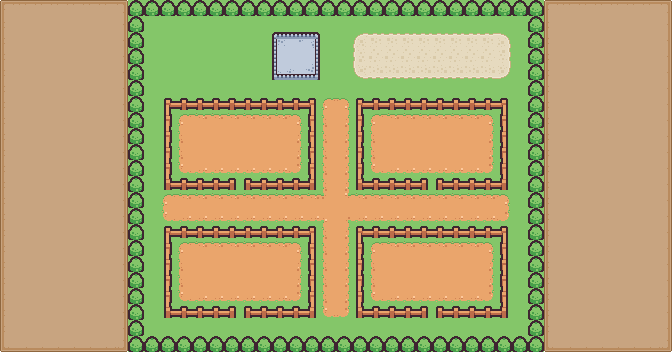
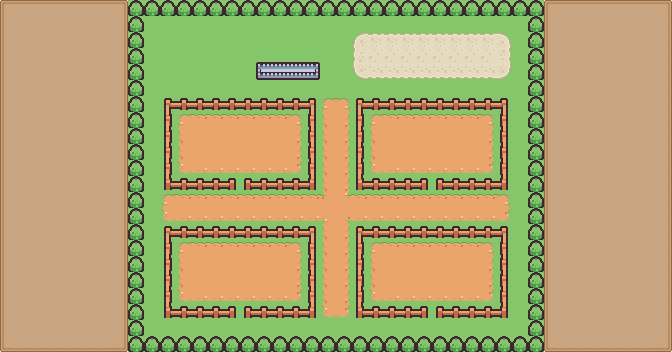
Added building material usage

Changed region(s): [[0.375, 0.0938, 0.5, 0.25]]

diff --git a/client/scenes/SceneGame.js b/client/scenes/SceneGame.js
@@ -50,15 +50,15 @@ let currentNotif = null;            // currently displayed notification
 // buttons ////////////////////////////////////////////////////////////////
 
 const button = {
-    endTurn: new Button(35*16, 19*16, 6*16, 2*16, 326, "end turn"),
+    endTurn: new Button(35*16, 19*16, 6*16, 2*16, "pink", "end turn"),
 
-    assignVillager: new Button(1*16, 16*16, 6*16, 1.5*16, 25, "assign"),
-    healVillager: new Button(1*16, 17.75*16, 6*16, 1.5*16, 200, "heal"),
+    assignVillager: new Button(1*16, 16*16, 6*16, 1.5*16, "orange", "assign"),
+    healVillager: new Button(1*16, 17.75*16, 6*16, 1.5*16, "blue", "heal"),
     
-    harvestCrop: new Button(1*16, 16*16, 6*16, 1.5*16, 120, "harvest"),
+    harvestCrop: new Button(1*16, 16*16, 6*16, 1.5*16, "green", "harvest"),
     
-    pickTree: new Button(1*16, 16*16, 6*16, 1.5*16, 120, "pick apple"),
-    cutTree: new Button(1*16, 17.75*16, 6*16, 1.5*16, 0, "cut"),
+    pickTree: new Button(1*16, 16*16, 6*16, 1.5*16, "green", "pick apple"),
+    cutTree: new Button(1*16, 17.75*16, 6*16, 1.5*16, "red", "cut"),
 };
 
 // socket messages ////////////////////////////////////////////////////////////////
@@ -89,6 +89,13 @@ socket.on("villagers", (_villagers) => {
 
     if(infoSelected && infoSelected.infoType == "villager")
         infoSelected = villagers.find(obj => obj.name == infoSelected.name);
+});
+
+socket.on("facility", (_facility) => {
+    facilities[_facility.label] = _facility;
+
+    if(infoSelected && infoSelected.infoType == "facility")
+        infoSelected = facilities[infoSelected.label];
 });
 
 socket.on("facilities", (_facilities) => {
@@ -250,6 +257,11 @@ function onClick(e)
                     {
                         finishAssign(facility);
                         infoSelected = prevSelected;
+                    }
+                    else if(heldItemStack && heldItemStack.item.type == "material")
+                    {
+                        useMaterial(facility);
+                        infoSelected = facility;
                     }
                     else
                         infoSelected = facility;
@@ -492,6 +504,12 @@ function startAssign()
 
 function finishAssign(facility)
 {
+    if(facility == facilities["power"] && facilities["power"].assignedVillagers.length > 0)
+    {
+        button.assignVillager.enabled = true;
+        return;
+    }
+
     // remove villager from current assigned facility
     let oldFacility = null;
 
@@ -541,6 +559,14 @@ function feedVillager(villager)
     socket.emit("villager", roomId, villager);
 
     useItem();
+}
+
+function useMaterial(facility)
+{
+    facility.progress += heldItemStack.item.progress;
+    useItem();
+
+    socket.emit("facility", roomId, facility);
 }
 
 function useItem()
@@ -740,6 +766,8 @@ function drawFacilities()
     ctx.drawImage(img.facilityEducation, 176 * SCALE, 240 * SCALE, img.facilityEducation.width * SCALE, img.facilityEducation.height * SCALE);
     ctx.drawImage(img.facilityHousing, 368 * SCALE, 240 * SCALE, img.facilityHousing.width * SCALE, img.facilityHousing.height * SCALE);
 
+    ctx.drawImage(img.powerOff, 16*16*SCALE, 16*1*SCALE, img.powerOff.width * SCALE, img.powerOn.height * SCALE);
+
     Object.values(facilities).forEach(facility => {
         if(getActiveWindow() == "main" && mouseInteract(facility))
             setLabel(facility);
@@ -757,6 +785,9 @@ function drawFarmland()
             let cropImg = obj.daysLeft == 0 ? img[obj.crop.food.id] : img.plant;
             ctx.drawImage(cropImg, obj.interactBox.x * SCALE, obj.interactBox.y * SCALE, 16 * SCALE, 16 * SCALE);
         }
+
+        if(heldItemStack && heldItemStack.item.type == "material")
+            return;
 
         if(getActiveWindow() == "main" && !selectedVillager && !obj.locked && mouseInteract(obj))
             setLabel(obj);
@@ -932,7 +963,6 @@ function drawInfoPanel()
             {
                 let image = img.treeRipe;
                 let text = "days until ripe: " + tree.daysLeft;
-                console.log(tree);
 
                 if(tree.cut)
                 {

diff --git a/server/src/Game.js b/server/src/Game.js
@@ -41,10 +41,11 @@ class Game {
         this.trees = [];
 
         this.facilities = {
-            "water": new Facility(),
-            "farming": new Facility(),
-            "education": new Facility(),
-            "housing": new Facility()
+            "water": new Facility(50),
+            "farming": new Facility(50),
+            "education": new Facility(50),
+            "housing": new Facility(50),
+            "power": new Facility(20)
         };
 
         this.inventory = [];
@@ -128,6 +129,10 @@ class Game {
         this.facilities["housing"].label = "housing";
         this.facilities["housing"].labelColor = "#FF6666";
         this.facilities["housing"].interactBox = {x: 368 - padding, y: 240 - padding, width: 128 + 2 * padding, height: 64 + 2 * padding};
+
+        this.facilities["power"].label = "power";
+        this.facilities["power"].labelColor = "#FFFF00";
+        this.facilities["power"].interactBox = {x: 16*16, y: 16*2, width: 64, height: 16*3};
     }
 
     initInventory()
@@ -136,14 +141,14 @@ class Game {
         this.inventory.push(new ItemStack(global.ITEMS.tomatoSeed, 4));
         this.inventory.push(new ItemStack(global.ITEMS.potatoSeed, 4));
         this.inventory.push(new ItemStack(global.ITEMS.carrotSeed, 4));
-        // inventory.push(new ItemStack(global.ITEMS.cucumber, 4));
-        // inventory.push(new ItemStack(global.ITEMS.tomato, 4));
-        // inventory.push(new ItemStack(global.ITEMS.potato, 4));
-        // inventory.push(new ItemStack(global.ITEMS.carrot, 4));
-        // inventory.push(new ItemStack(global.ITEMS.apple, 4));
-        // inventory.push(new ItemStack(global.ITEMS.wood, 4));
-        // inventory.push(new ItemStack(global.ITEMS.brick, 4));
-        // inventory.push(new ItemStack(global.ITEMS.steel, 4));
+        // this.inventory.push(new ItemStack(global.ITEMS.cucumber, 4));
+        // this.inventory.push(new ItemStack(global.ITEMS.tomato, 4));
+        // this.inventory.push(new ItemStack(global.ITEMS.potato, 4));
+        // this.inventory.push(new ItemStack(global.ITEMS.carrot, 4));
+        // this.inventory.push(new ItemStack(global.ITEMS.apple, 4));
+        // this.inventory.push(new ItemStack(global.ITEMS.wood, 4));
+        this.inventory.push(new ItemStack(global.ITEMS.brick, 4));
+        this.inventory.push(new ItemStack(global.ITEMS.steel, 4));
     }
 
     initFarmland()
@@ -209,6 +214,10 @@ class Game {
     {
         this.villagers.forEach(villager => {
             
+            if(!villager.currentTask) return;
+
+            if(villager.currentTask == "power") return;
+
             let baseProgress, leastEffectiveMult, mostEffectiveMult = 0;
 
             switch(this.facilities["education"].level)
@@ -241,8 +250,6 @@ class Game {
                 default:
                     break;
             }
-
-            if(!villager.currentTask) return;
 
             if(villager.currentTask == villager.mostEffectiveTask)
                 this.addProgress(this.facilities[villager.currentTask], baseProgress * mostEffectiveMult);

diff --git a/client/global.js b/client/global.js
@@ -47,48 +47,21 @@ export function mouseInteract(obj)
 
 export function drawButton(button)
 {
-    // let tilesX = Math.floor(button.interactBox.width / 16);
-    // let tilesY = Math.floor(button.interactBox.height / 16);
-    
-    // for(let i = 0; i < tilesY; i++)
-    // {
-    //     for(let j = 0; j < tilesX; j++)
-    //     {
-    //         let imgX = 0;
-    //         let imgY = 0;
-
-    //         if(j == 0) imgX = 0;
-    //         else if(j < tilesX - 1) imgX = 16;
-    //         else if(j == tilesX - 1) imgX = 2 * 16;
-
-    //         if(i == 0) imgY = 0;
-    //         else if(i < tilesY - 1) imgY = 16;
-    //         else if(i == tilesY - 1) imgY = 2 * 16;
-
-    //         ctx.drawImage(img.buttonLarge,
-    //             imgX, imgY,
-    //             16, 16,
-    //             (button.interactBox.x + j * 16) * SCALE,
-    //             (button.interactBox.y + i * 16) * SCALE,
-    //             16 * SCALE, 16 * SCALE);
-    //     }
-    // }
-
-    ctx.fillStyle = "hsl(" + button.hue + ", 100%, 70%)";
+    ctx.fillStyle = button.colorA;
     ctx.fillRect(
         button.interactBox.x * SCALE,
         button.interactBox.y * SCALE,
         button.interactBox.width * SCALE,
         button.interactBox.height * SCALE);
 
-    ctx.fillStyle = "hsl(" + button.hue + ", 100%, 75%)";
+    ctx.fillStyle = button.colorB;
     ctx.fillRect(
         (button.interactBox.x + 1) * SCALE,
         (button.interactBox.y + 1) * SCALE,
         (button.interactBox.width - 2) * SCALE,
         (button.interactBox.height - 2) * SCALE);
 
-    ctx.fillStyle = "hsl(" + button.hue + ", 100%, 70%)";
+    ctx.fillStyle = button.colorA;
     ctx.fillRect(
         (button.interactBox.x + 3) * SCALE,
         (button.interactBox.y + 3) * SCALE,

diff --git a/client/src/Button.js b/client/src/Button.js
@@ -1,10 +1,37 @@
 export class Button {
-    constructor(x, y, width, height, hue, text = "")
+    constructor(x, y, width, height, color = "pink", text = "")
     {
         this.interactBox = { x, y, width, height };
-        this.hue = hue;
         this.text = text;
 
         this.enabled = true;
+
+        switch(color)
+        {
+            case "pink":
+                this.colorA = "#ff66bd";
+                this.colorB = "#ff7fc7";
+                break;
+            case "red":
+                this.colorA = "#ff6666";
+                this.colorB = "#ff8080";
+                break;
+            case "orange":
+                this.colorA = "#ffa666";
+                this.colorB = "#ffb580";
+                break;
+            case "green":
+                this.colorA = "#5ce55c";    // #66ff66
+                this.colorB = "#66ff66";    // #80ff80
+                break;
+            case "blue":
+                this.colorA = "#66ccff";
+                this.colorB = "#80d4ff";
+                break;
+            default:
+                this.colorA = "white";
+                this.colorB = "black";
+                break;
+        }
     }
 }

diff --git a/client/scenes/SceneLobby.js b/client/scenes/SceneLobby.js
@@ -7,13 +7,13 @@ import { Button } from "../src/Button.js";
 let ready = false;
 
 const buttons = {
-    chief: new Button(13*16, 2*16, 6*16, 1.5*16, 200, "chief"),
-    doctor: new Button(13*16, 4*16, 6*16, 1.5*16, 200, "doctor"),
-    scientist: new Button(13*16, 6*16, 6*16, 1.5*16, 200, "scientist"),
-    sociologist: new Button(13*16, 8*16, 6*16, 1.5*16, 200, "sociologist"),
-    farmer: new Button(13*16, 10*16, 6*16, 1.5*16, 200, "farmer"),
-    engineer: new Button(13*16, 12*16, 6*16, 1.5*16, 200, "engineer"),
-    ready: new Button(1*16, 12*16, 6*16, 1.5*16, 0, "ready"),
+    chief: new Button(13*16, 2*16, 6*16, 1.5*16, "blue", "chief"),
+    doctor: new Button(13*16, 4*16, 6*16, 1.5*16, "blue", "doctor"),
+    scientist: new Button(13*16, 6*16, 6*16, 1.5*16, "blue", "scientist"),
+    sociologist: new Button(13*16, 8*16, 6*16, 1.5*16, "blue", "sociologist"),
+    farmer: new Button(13*16, 10*16, 6*16, 1.5*16, "blue", "farmer"),
+    engineer: new Button(13*16, 12*16, 6*16, 1.5*16, "blue", "engineer"),
+    ready: new Button(1*16, 12*16, 6*16, 1.5*16, "red", "ready"),
 };
 
 socket.on("refresh_lobby", (_players, _roomId) => {

diff --git a/client/assets.js b/client/assets.js
@@ -24,6 +24,8 @@ export const img = {
     facilityWater:      loadImage("assets/art/facility_water.png"),
     facilityEducation:  loadImage("assets/art/facility_education.png"),
     facilityHousing:    loadImage("assets/art/facility_housing.png"),
+    powerOff:           loadImage("assets/art/power_off.png"),
+    powerOn:            loadImage("assets/art/power_on.png"),
     farmland:           loadImage("assets/art/farmland.png"),
     farmlandLocked:     loadImage("assets/art/farmland_locked.png"),
     plant:              loadImage("assets/art/plant.png"),

diff --git a/server/index.js b/server/index.js
@@ -266,6 +266,15 @@ io.on("connection", (socket) => {
         }
     });
 
+    socket.on("facility", (_roomId, _facility) => {
+        let game = games[_roomId];
+        game.facilities[_facility.label] = _facility;
+
+        game.players.forEach(player => {
+            io.sockets.to(player.id).emit("facility", _facility);
+        });
+    });
+
     socket.on("end_turn", (_roomId) => {
         let game = games[_roomId];
         game.nextDay();

diff --git a/server/src/Facility.js b/server/src/Facility.js
@@ -1,13 +1,13 @@
 const Interactable = require("./Interactable");
 
 class Facility extends Interactable {
-    constructor()
+    constructor(progressMax)
     {
         super();
 
         this.level = 1;
         this.progress = 0;
-        this.progressMax = 50;
+        this.progressMax = progressMax;
         this.assignedVillagers = [];    // string array of villager names
         
         this.infoType = "facility";

diff --git a/client/scenes/SceneMenu.js b/client/scenes/SceneMenu.js
@@ -7,8 +7,8 @@ import { TextField } from "../src/TextField.js";
 
 
 const buttons = {
-    hostGame: new Button(7*16, 4*16, 6*16, 2*16, 326, "host game"),
-    joinGame: new Button(7*16, 11*16, 6*16, 2*16, 326, "join game")
+    hostGame: new Button(7*16, 4*16, 6*16, 2*16, "pink", "host game"),
+    joinGame: new Button(7*16, 11*16, 6*16, 2*16, "pink", "join game")
 };
 
 const textFields = {

diff --git a/server/src/Event.js b/server/src/Event.js
@@ -1,0 +1,10 @@
+class Event {
+    constructor(name, id, description)
+    {
+        this.name = name;                   // string
+        this.id = id;                       // string
+        this.description = description;     // string
+    }
+}
+
+module.exports = Event;

diff --git a/server/global.js b/server/global.js
@@ -1,6 +1,7 @@
 const Seed = require("./src/Seed.js");
 const Food = require("./src/Food.js");
 const Material = require("./src/Material.js");
+const Event = require("./src/Event.js");
 
 const VILLAGER_COUNT = 12;
 const FARMLAND_COUNT = 32;
